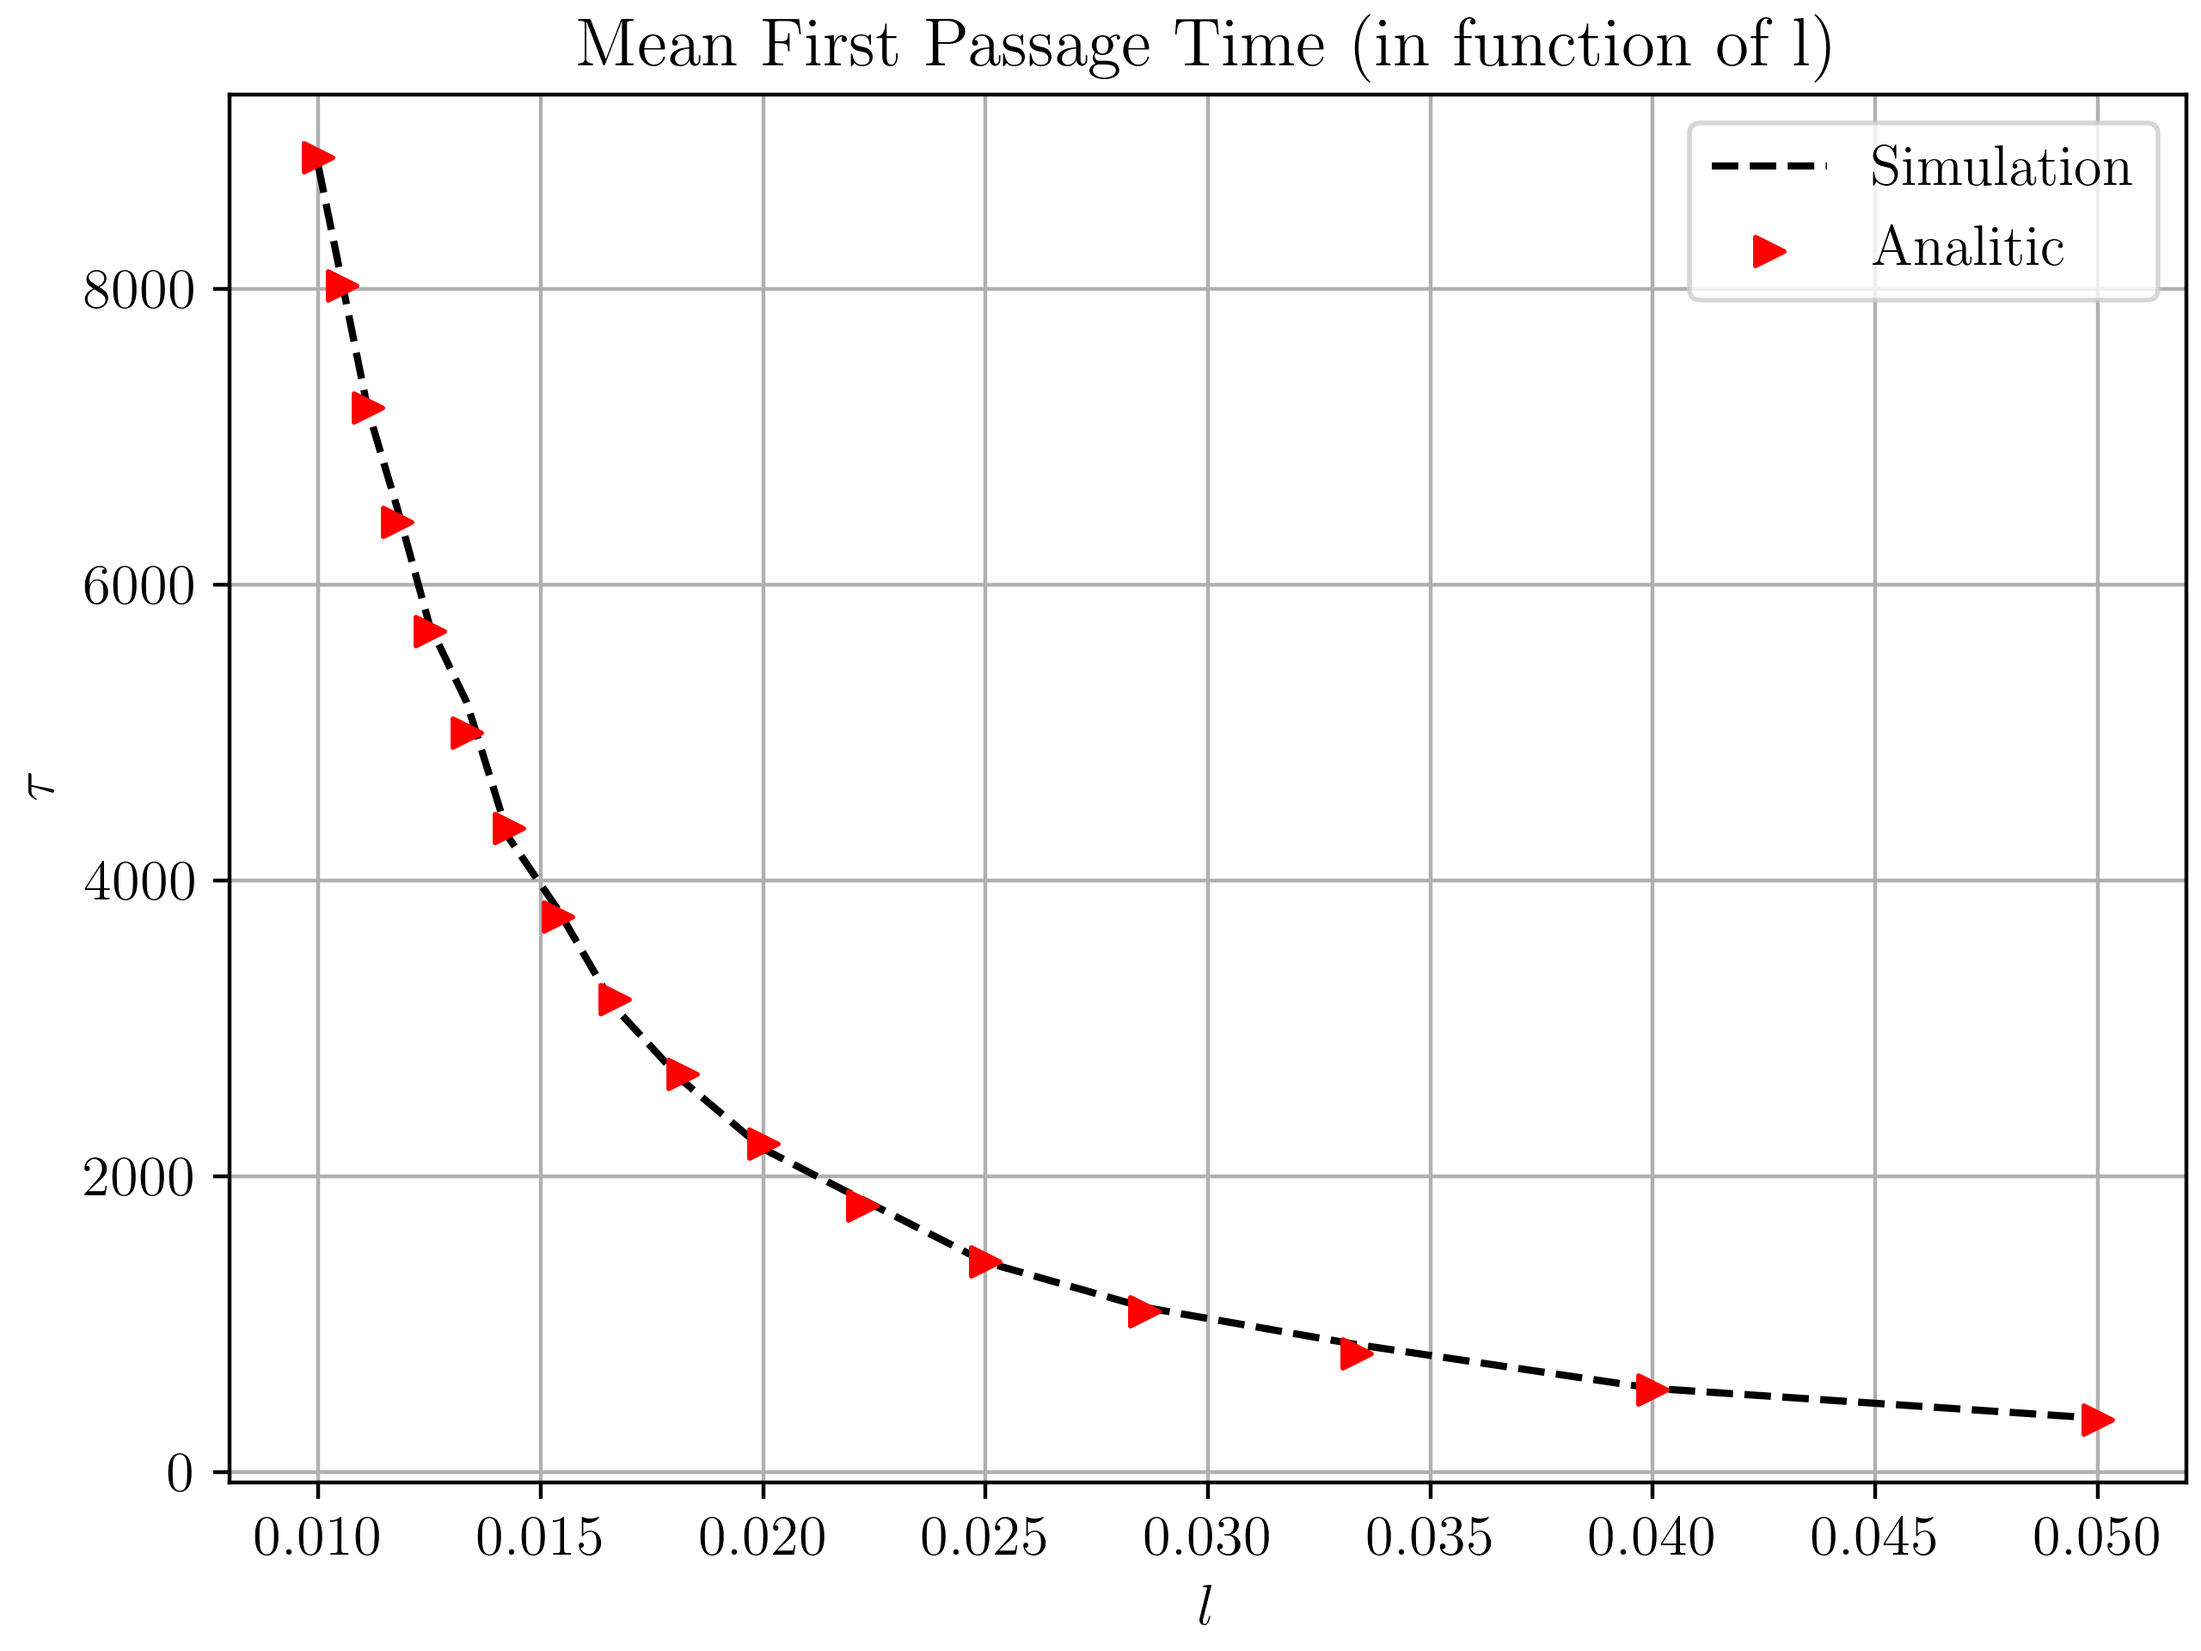
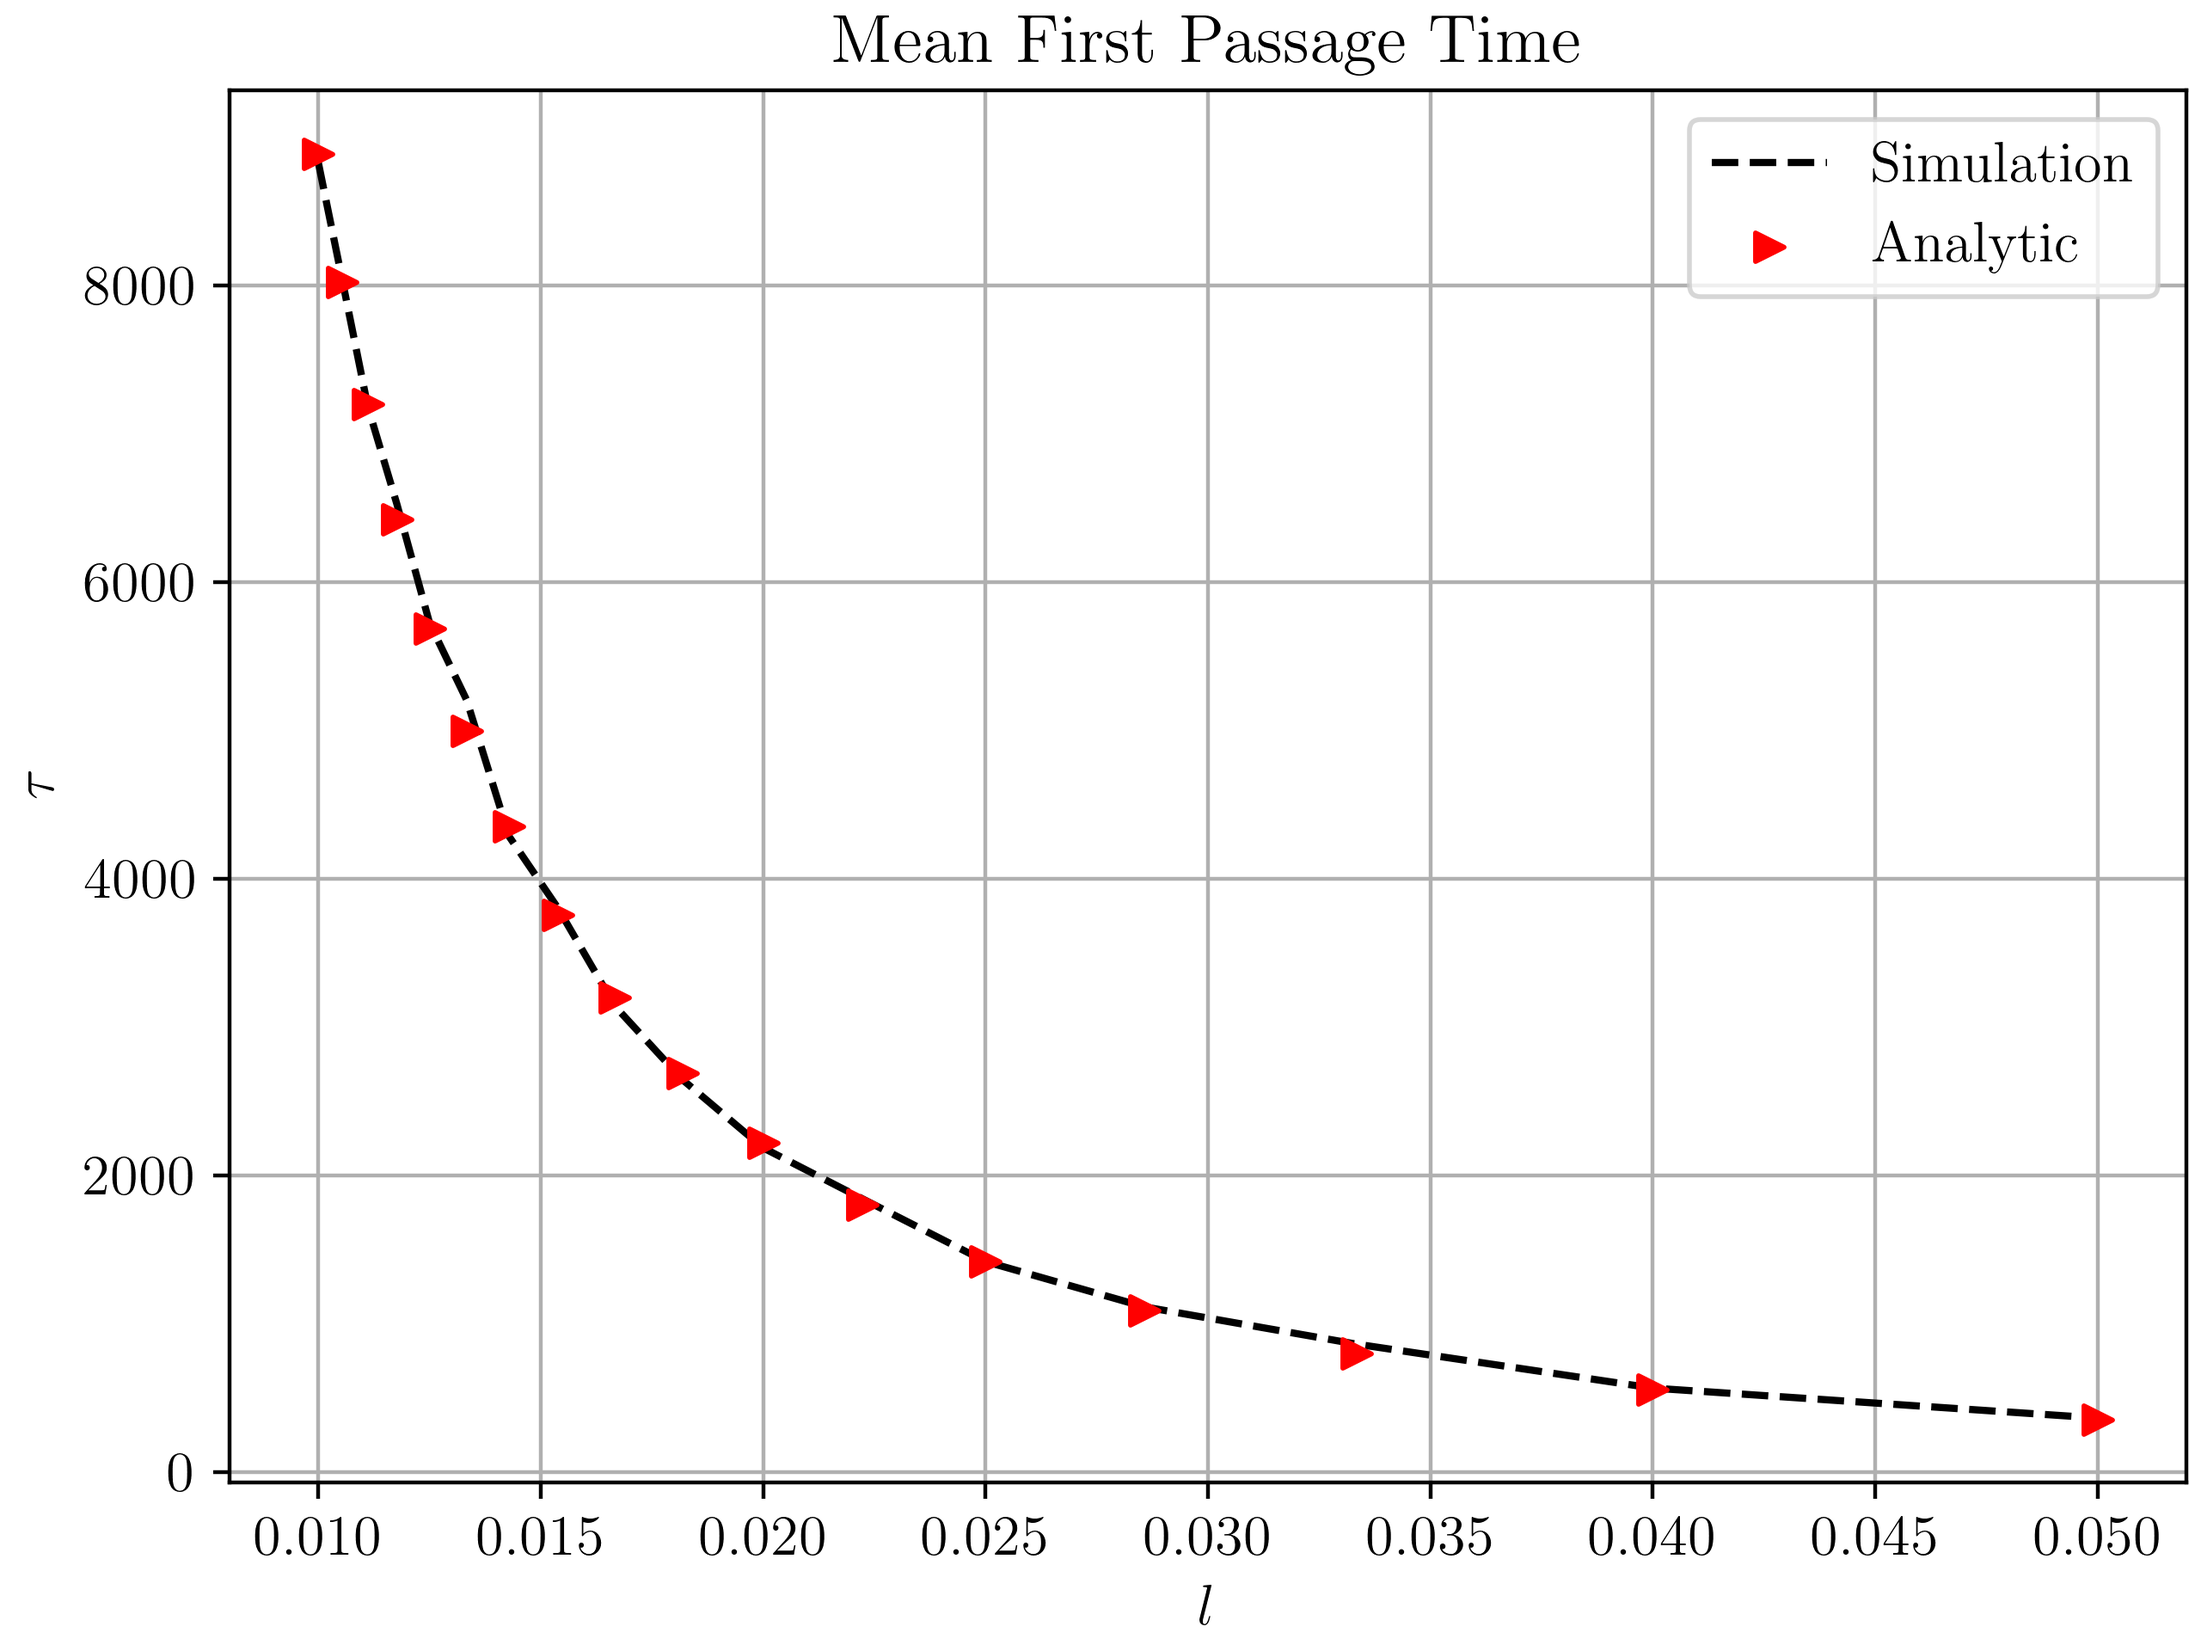
Atualização

diff --git a/Atividades-aula/trabalho_estatistica/analise.py b/Atividades-aula/trabalho_estatistica/analise.py
@@ -21,12 +21,12 @@ for t in range(len(l)):
 
 plt.figure(layout='constrained')
 plt.plot(l[::-1], tm[::-1], 'k--', label='Simulation')
-plt.scatter(l[::-1], tau_an[::-1], c='r', marker='>', label='Analitic', zorder=3)
+plt.scatter(l[::-1], tau_an[::-1], c='r', marker='>', label='Analytic', zorder=3)
 plt.legend()
 plt.xlabel(r'$l$')
 plt.ylabel(r'$\tau$')
 plt.grid()
-plt.title('Mean First Passage Time (in function of l)')
+plt.title('Mean First Passage Time')
 plt.savefig('compare.png', dpi=400)
 
 
